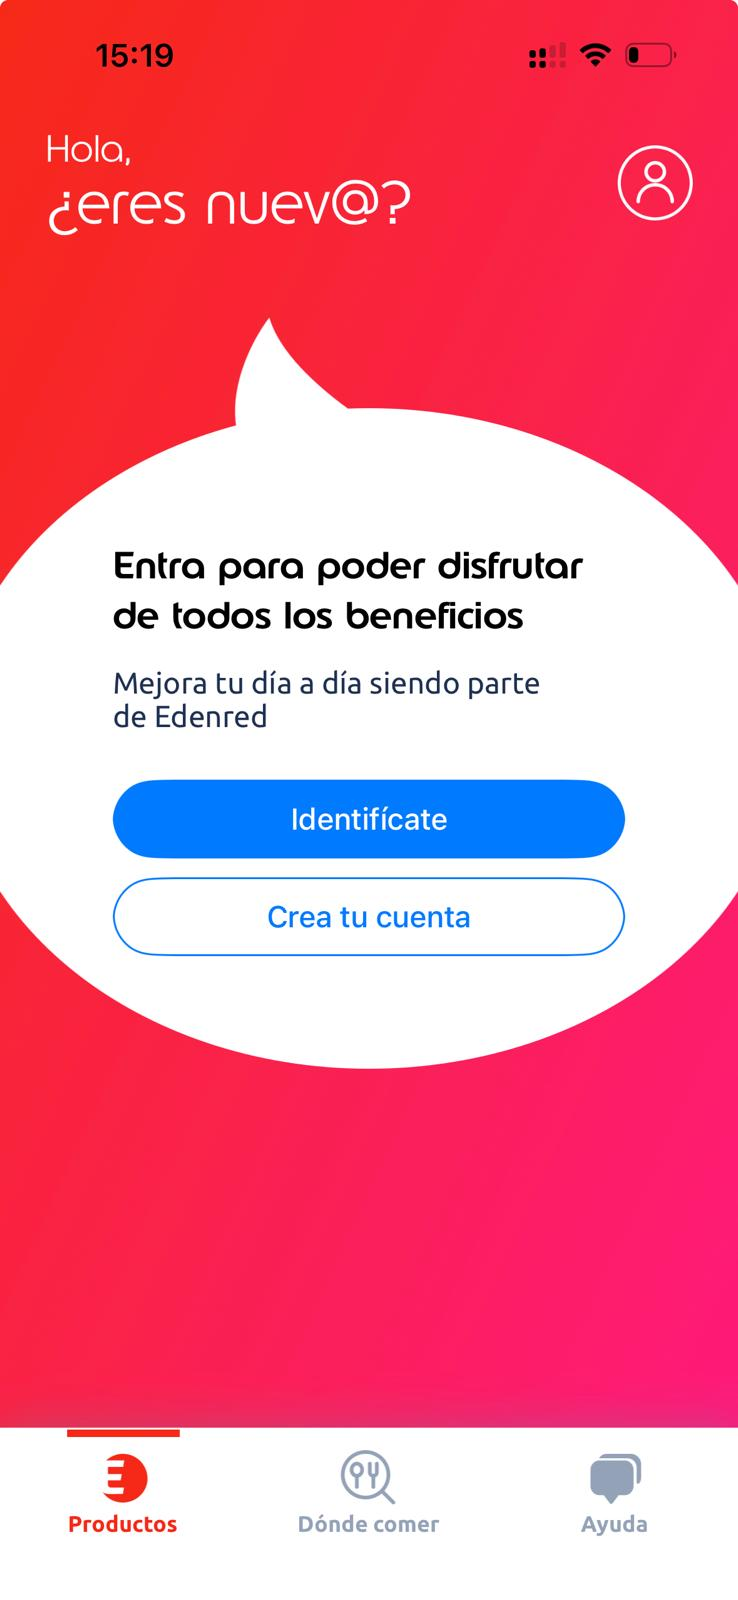
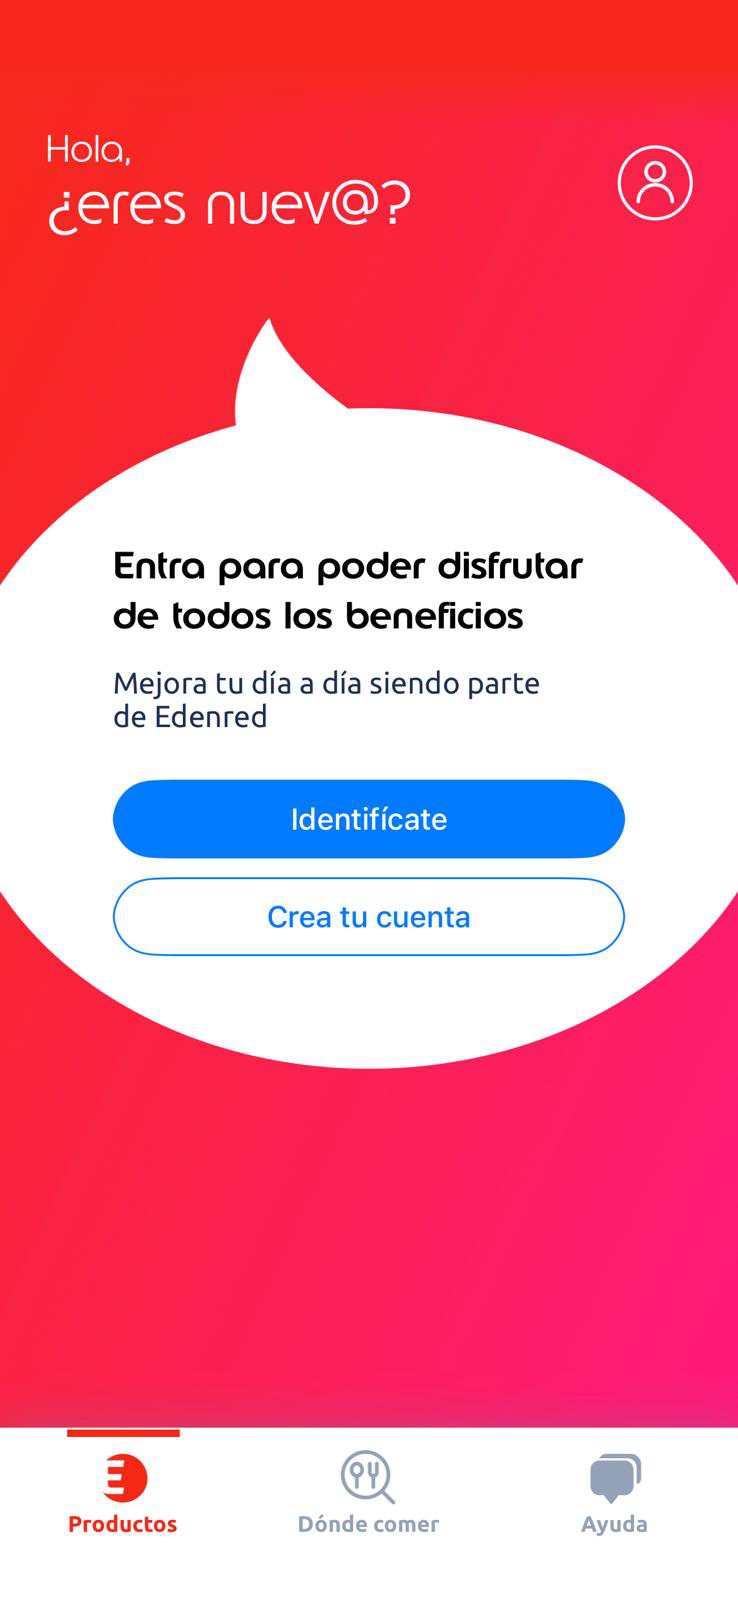
WIP

Changed region(s): [[0.5921, 0.0, 1.0, 0.0625], [0.1247, 0.0312, 0.2493, 0.0625]]

diff --git a/index.html b/index.html
@@ -21,19 +21,18 @@
       inset: 0;
       width: 100%;
       height: 100%;
-      min-height: 100dvh;
       margin: 0;
       overflow: hidden;
       overscroll-behavior: none;
-      background: #ea3f41;
+      background: #fff;
       touch-action: none;
     }
 
     img {
       position: fixed;
       inset: 0;
-      width: 100vw;
-      height: 100dvh;
+      width: 100%;
+      height: 100%;
       object-fit: fill;
       cursor: pointer;
       -webkit-tap-highlight-color: transparent;

diff --git a/service-worker.js b/service-worker.js
@@ -1,4 +1,4 @@
-const CACHE_NAME = "myedenred-v3";
+const CACHE_NAME = "myedenred-v4";
 const APP_FILES = [
   "./",
   "./index.html",

diff --git a/README.md b/README.md
@@ -1,1 +1,14 @@
 # myedenred
+
+A full-screen image and sound web app. `image.png` is the final artwork,
+without a clock, Wi-Fi, or battery indicators. It fills the app viewport;
+the operating system supplies the real status bar. No additional safe-area
+padding is added because the artwork already includes space above the greeting.
+
+On iPhone, open the hosted site in Safari and choose Share > Add to Home Screen.
+The translucent status bar allows the artwork to extend behind it; iOS controls
+the status-bar icon color.
+
+After deploying an update, open the app online to refresh its offline cache,
+then close and reopen it. If iOS retains old installation settings, remove the
+Home Screen app and add it again.
